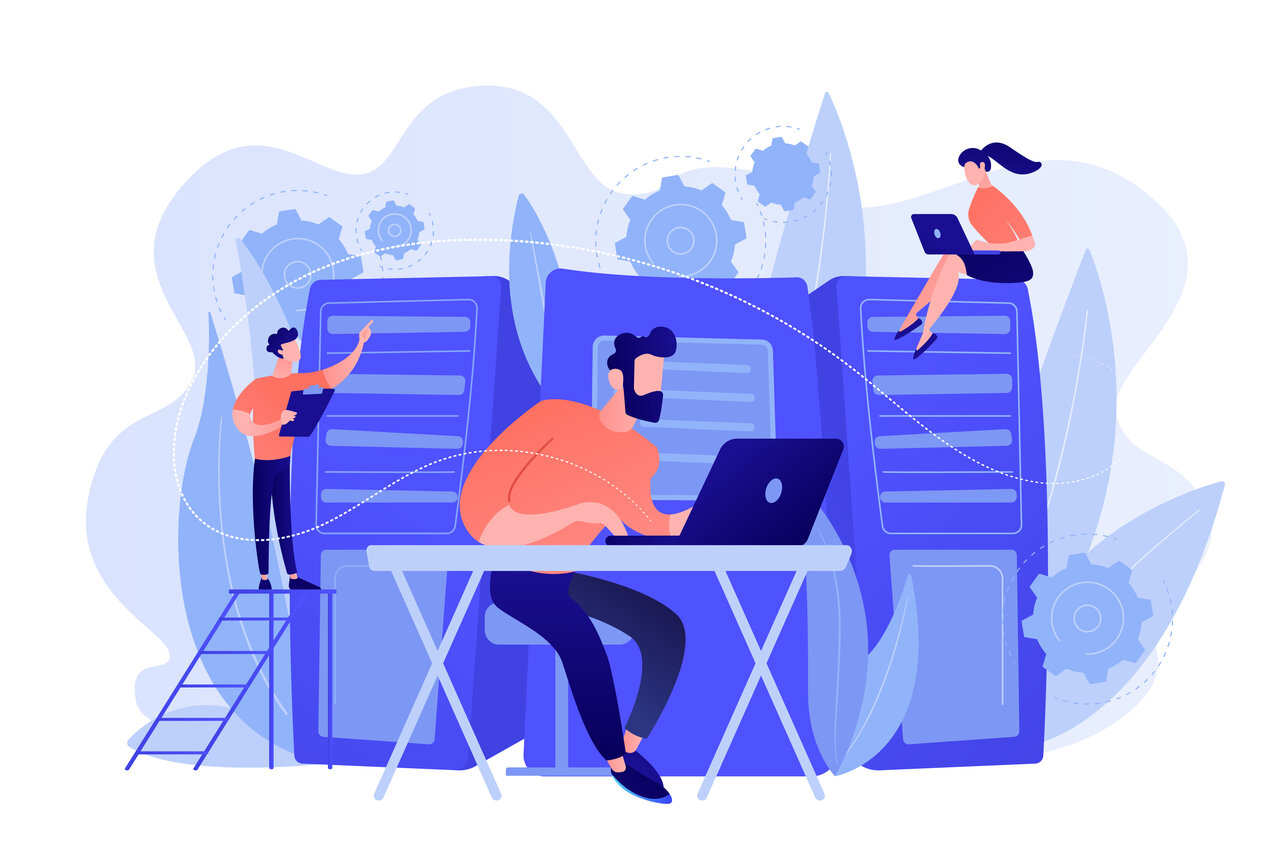
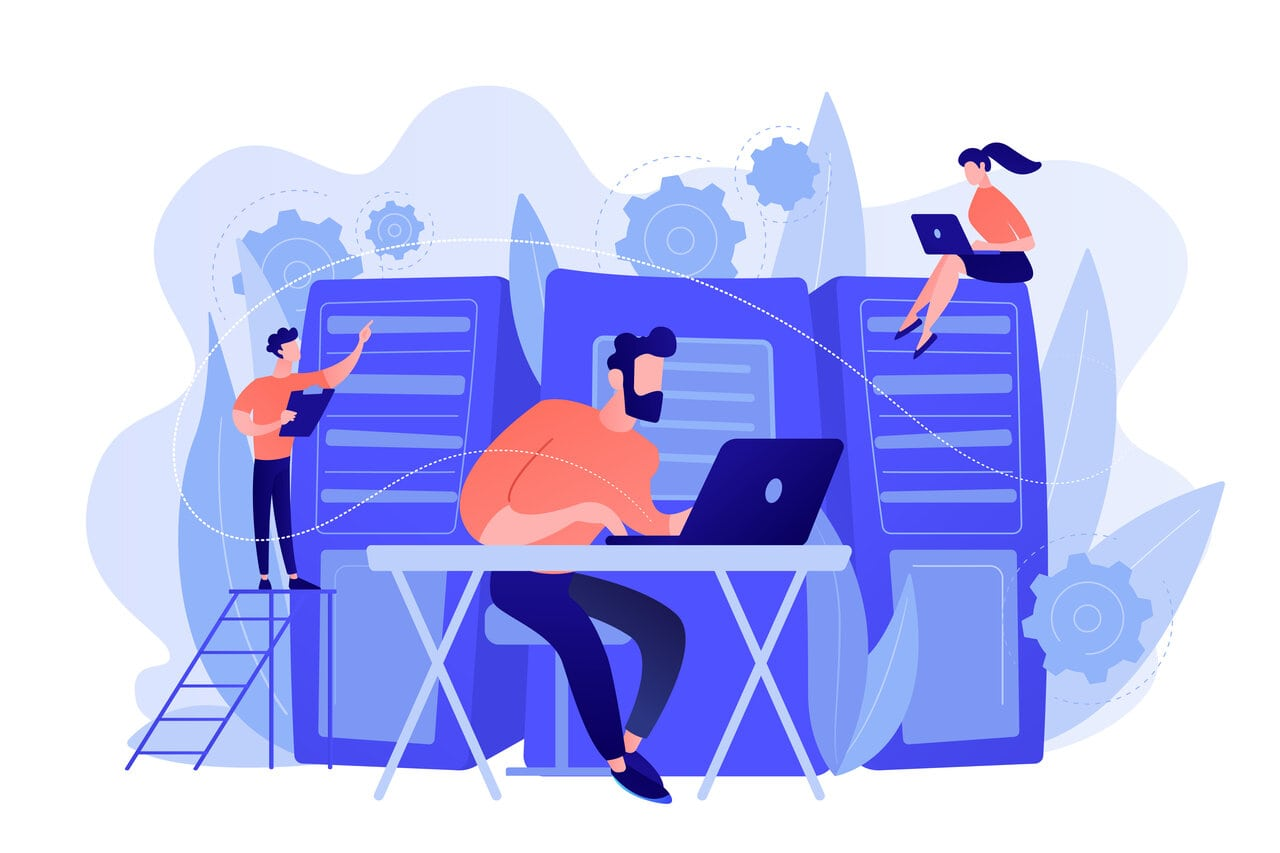
added compressed image

diff --git a/pages/index.js b/pages/index.js
@@ -24,7 +24,7 @@ export default function Home() {
 
           
           <div className={styles.img}>
-            <Image src={heroImage} alt="main image" priority={true} />
+            <Image src={heroImage} alt="main image" priority={true} width={1280} height={853}/>
           </div>
 
           <div className={styles.ctaWrapper}>
